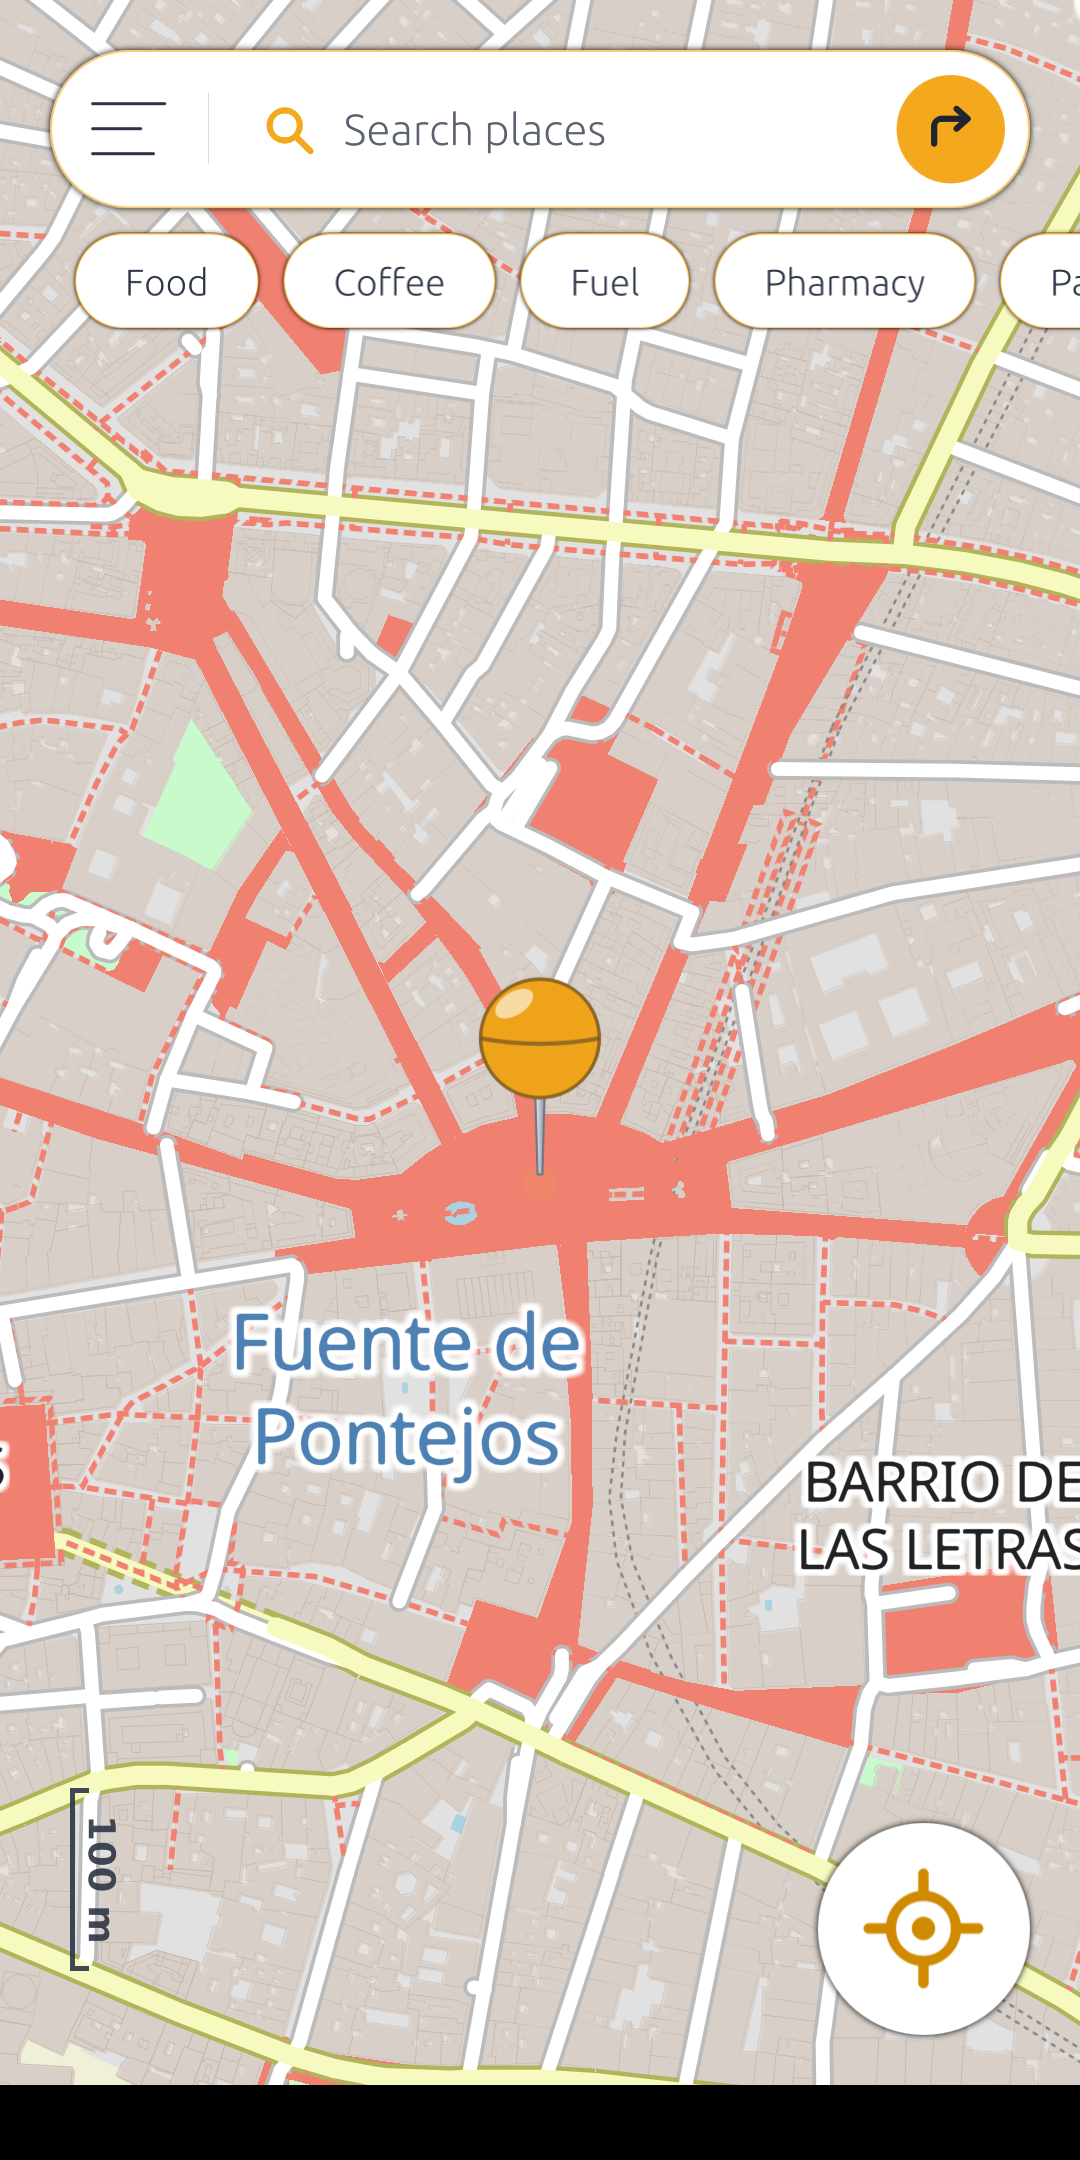
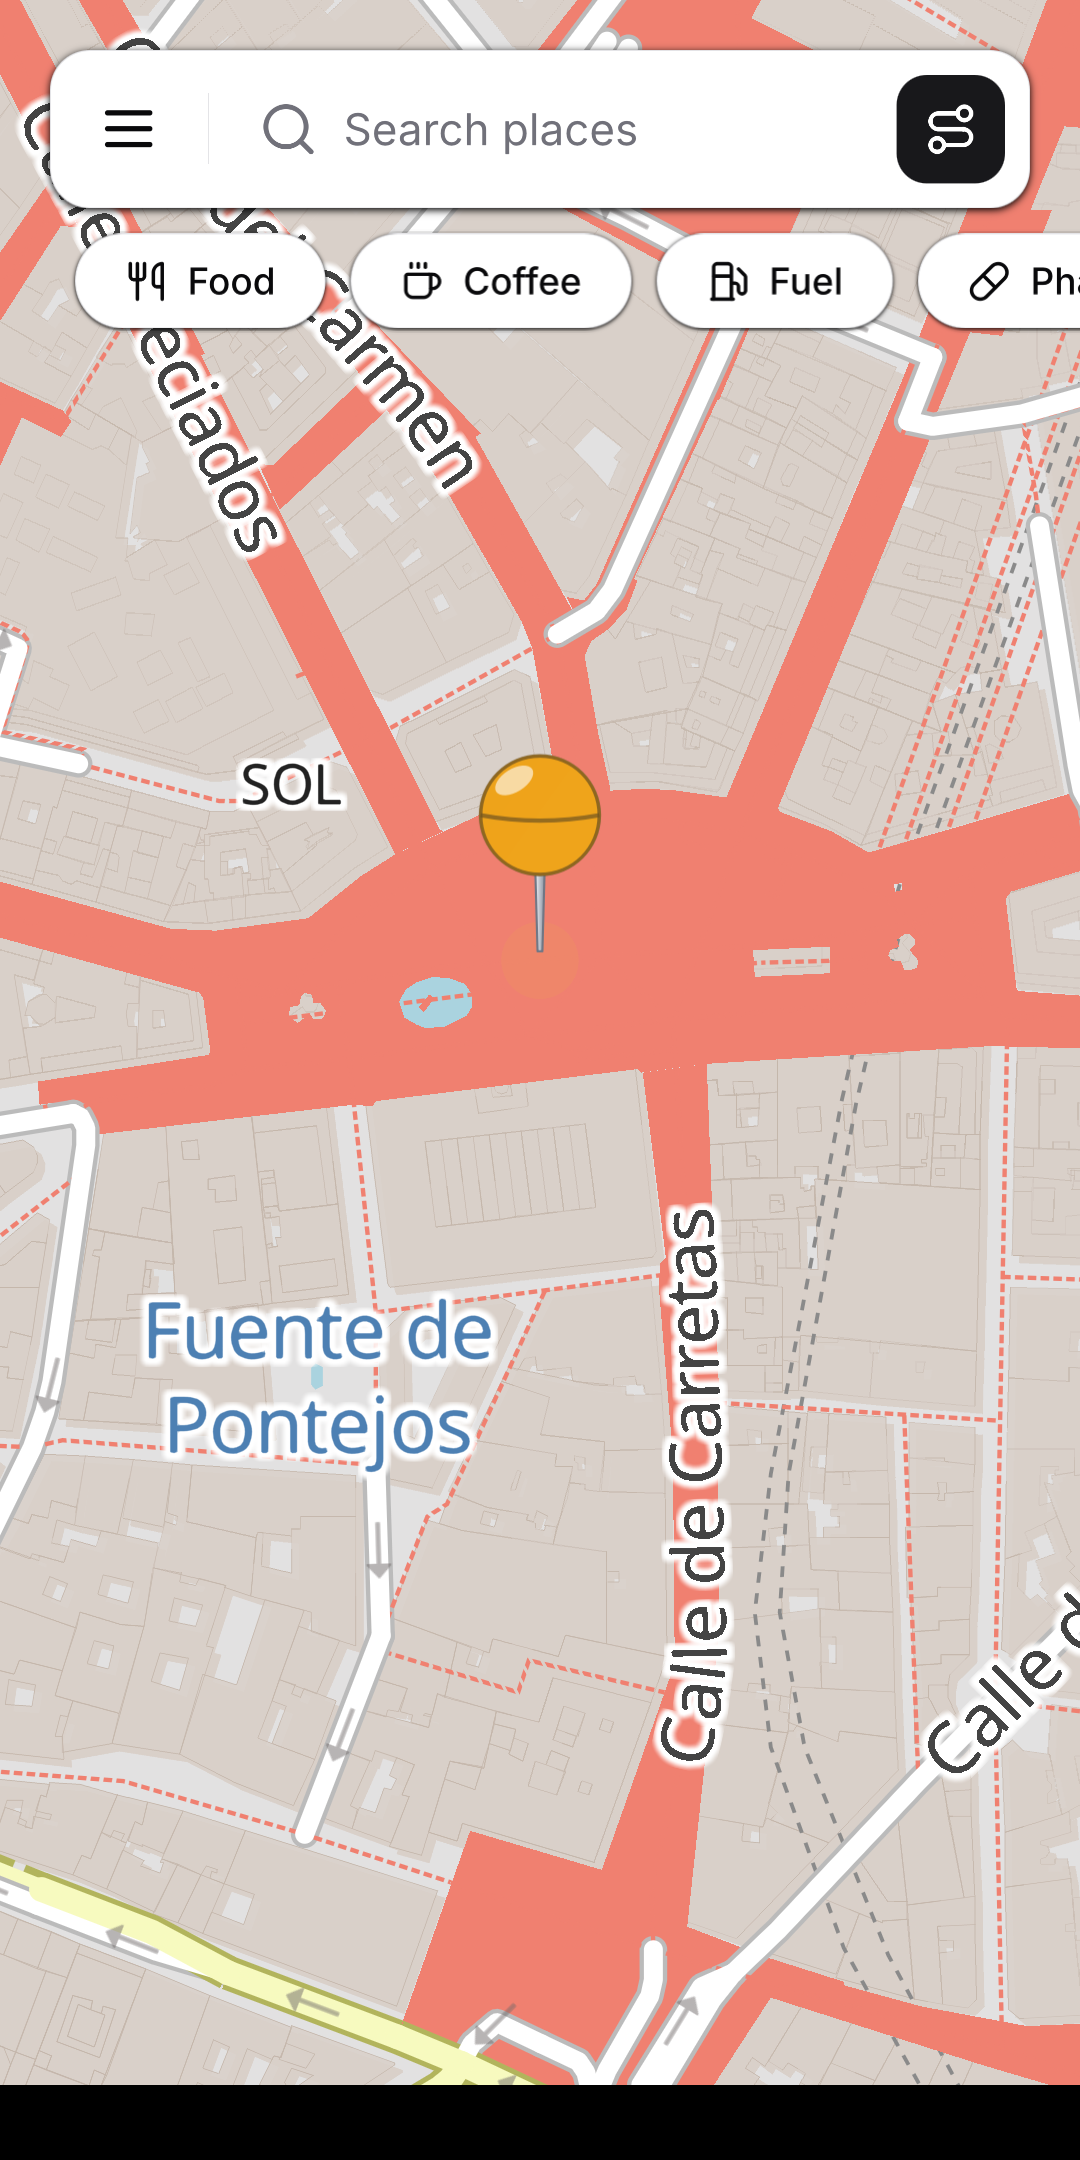
Store listing for 0.10.57: new screenshots and README
- Four store screenshots of the current design, taken at Puerta del Sol
  with a simulated position: map, directions with alternatives, driving
  at night, and a place card (replaces the 0.8.3 ones; search.png is now
  place.png).
- README lists offline search and routing anywhere, route alternatives,
  place cards and themes, and every outside service the code contacts
  (adds Nominatim and the Ministry's fuel prices).

0.10.57 is the same code as 0.10.56; the version moved up so the release
installs over a dev build. click-review passes.

Claude-Session: https://claude.ai/code/session_01VpZ8EiYHhKt5wTv6gVr8ds

diff --git a/README.md b/README.md
@@ -14,7 +14,12 @@ Osmo Salomaa and contributors, and of its Ubuntu Touch port by Jonatan Hatakeyam
 - One router for every mode: Valhalla for walk, bike, car, scooter and taxi, and
   Transitous for public transport (`routers/libremaps.py`)
 - A keyless "nearby" guide that uses Overpass, with Photon as a fallback (`guides/libremaps.py`)
-- Offline maps: downloads a region's tiles, fonts and sprites (`poor/offline.py`, `qml/OfflinePage.qml`)
+- Offline maps anywhere: save the area on screen (`poor/offline.py`, `qml/OfflinePage.qml`,
+  `qml/OfflinePicker.qml`), then search (`poor/offline_search.py`) and get car, bike and walking
+  routes (`poor/offline_route.py`) without a connection, from indexes built on the phone
+  (`poor/offline_index.py`)
+- Alternative routes with their arrival times, a Waze-style driving screen, place cards with
+  opening hours (and fuel prices in Spain, `poor/placeinfo.py`), and Light, Dark and Auto themes
 - Speed limits and fixed speed cameras from OpenStreetMap (`qml/RoadWatch.qml`)
 - Traffic alerts: official incidents from Spain's DGT, and police, accidents, hazards,
   closed roads, jams and mobile cameras reported by other drivers through Nostr relays
@@ -27,12 +32,14 @@ Osmo Salomaa and contributors, and of its Ubuntu Touch port by Jonatan Hatakeyam
 ## Outside services
 
 These are contacted only when you use the feature that needs them:
-OpenFreeMap (map tiles), Photon (search, and places nearby when Overpass fails),
-Valhalla at openstreetmap.de (routes and speed limits),
-Transitous (public transport), Overpass (speed cameras and places nearby), ipwho.is (rough
-position before the first GPS fix), the DGT's open data feed at nap.dgt.es (official traffic
-incidents in Spain) and the Nostr relays relay.damus.io, nos.lol, relay.primal.net and
-offchain.pub (drivers' reports, read by area and published when you report). The app's About page lists them too.
+OpenFreeMap (map tiles and offline downloads), Photon (search and places nearby),
+Nominatim at openstreetmap.org (place details, names of saved areas, and places nearby when Photon
+finds nothing), Valhalla at openstreetmap.de (routes and speed limits), Transitous (public
+transport), Overpass (speed cameras, places nearby and opening hours), Spain's Ministry for
+Ecological Transition (fuel prices, one province at a time), ipwho.is (rough position before the
+first GPS fix), the DGT's open data feed at nap.dgt.es (official traffic incidents in Spain) and the
+Nostr relays relay.damus.io, nos.lol, relay.primal.net and offchain.pub (drivers' reports, read by
+area and published when you report). The app's About page lists them too.
 
 ## API keys
 
